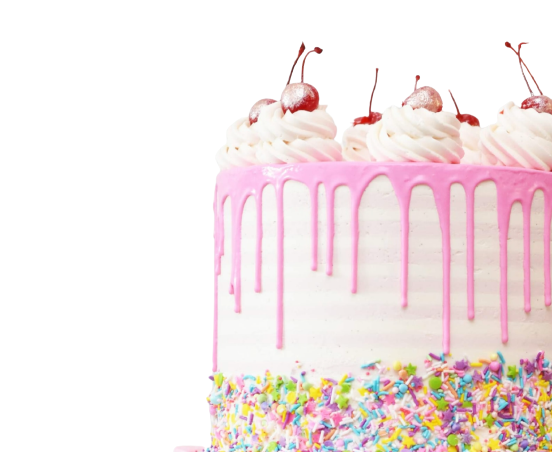
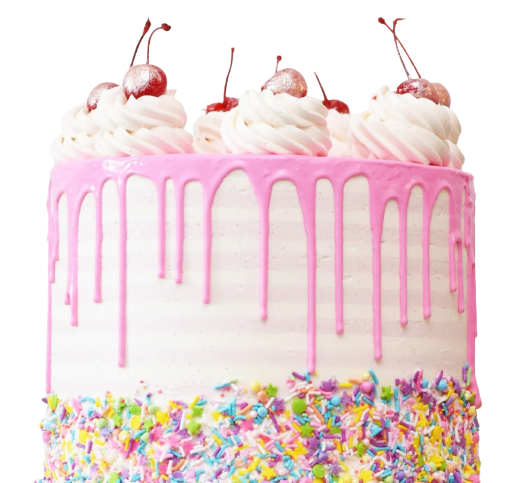
refactor
add background

diff --git a/frontend/src/components/Hero.jsx b/frontend/src/components/Hero.jsx
@@ -5,8 +5,8 @@ import './styles/hero.css'
 const Hero = () => {
   return (
     <section className='hero'>
-      <Container className='h-100'>
-        <Row className='h-100 align-items-center'>
+      <Container>
+        <Row>
           <Col md={6}>
             <div>
               <h1>There is always room for some CAKE!</h1>

diff --git a/frontend/src/components/styles/hero.css b/frontend/src/components/styles/hero.css
@@ -1,7 +1,9 @@
 .hero {
-  height: 900px;
+  height: 85vh;
+  display: grid;
+  place-items: center;
   background-image: url('../../images/bcg-hero.png');
-  background-position: bottom right;
+  background-position: 92% 100%;
   background-repeat: no-repeat;
-  background-size: 60vw;
+  background-size: 40vmax auto;
 }

diff --git a/frontend/src/components/Header.jsx b/frontend/src/components/Header.jsx
@@ -20,7 +20,7 @@ const Header = () => {
   }
 
   return (
-    <header>
+    <header style={{ height: '15vh' }}>
       <Navbar bg='transparent' expand='lg' collapseOnSelect>
         <Container>
           <LinkContainer to='/'>
